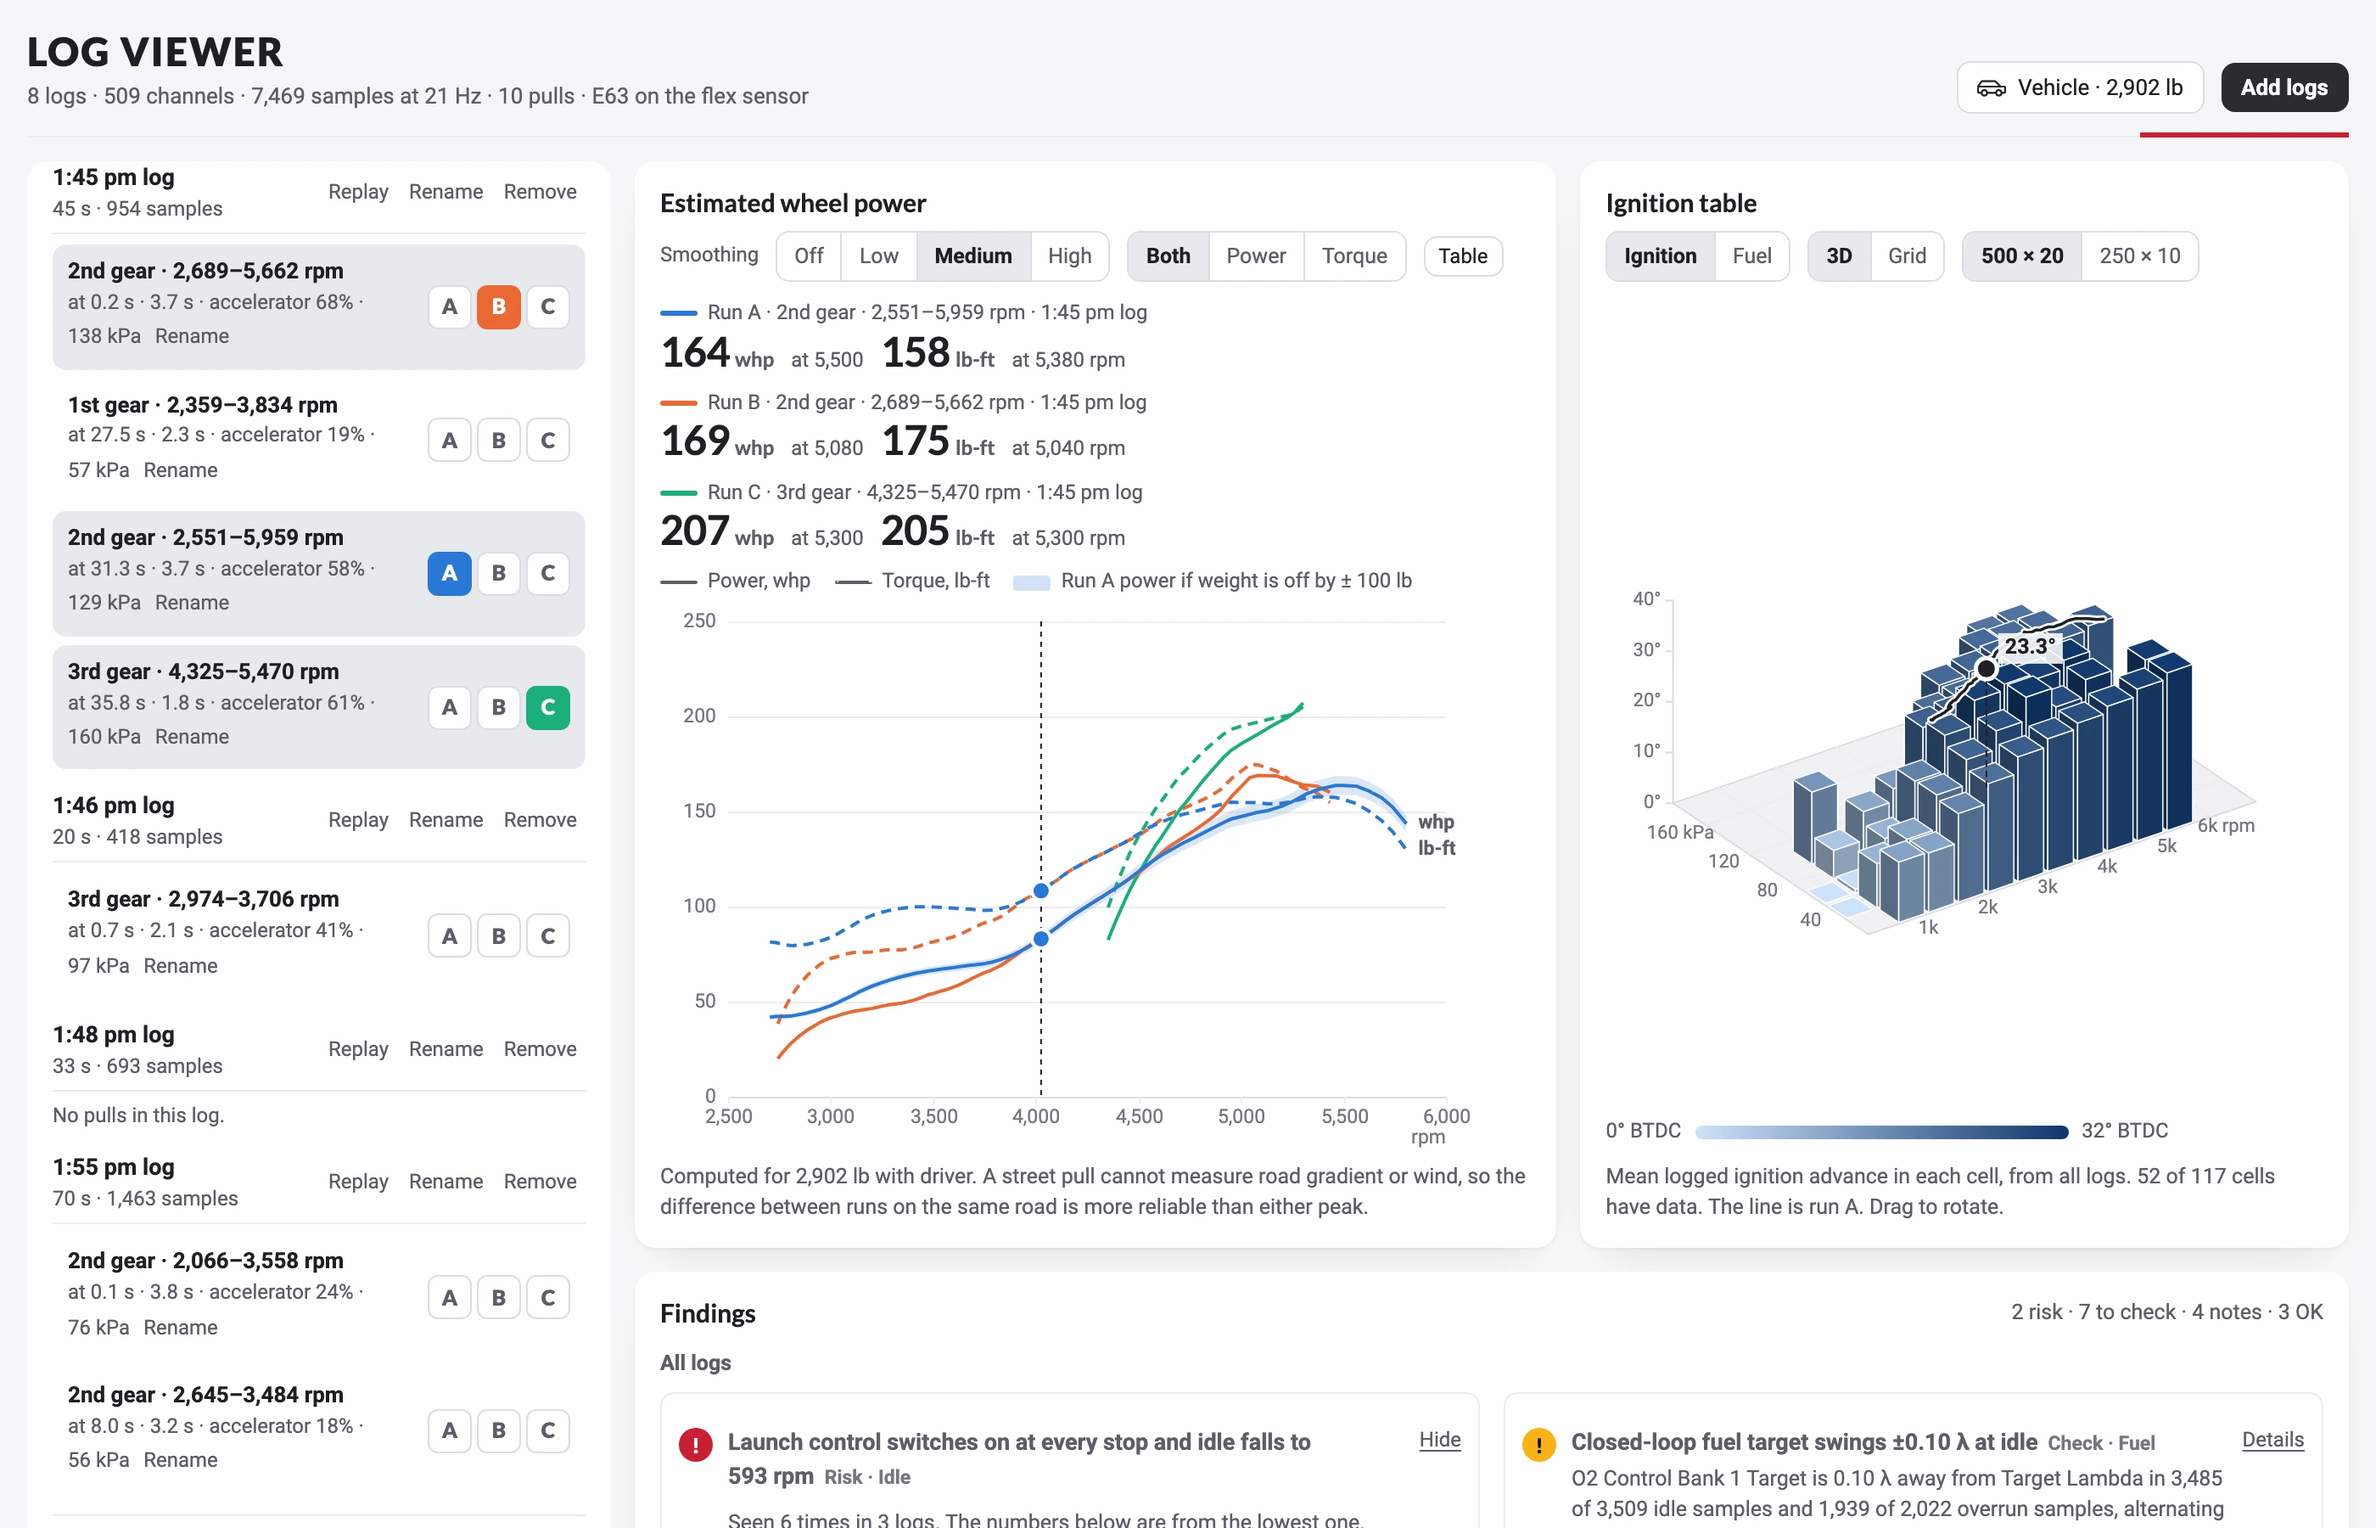
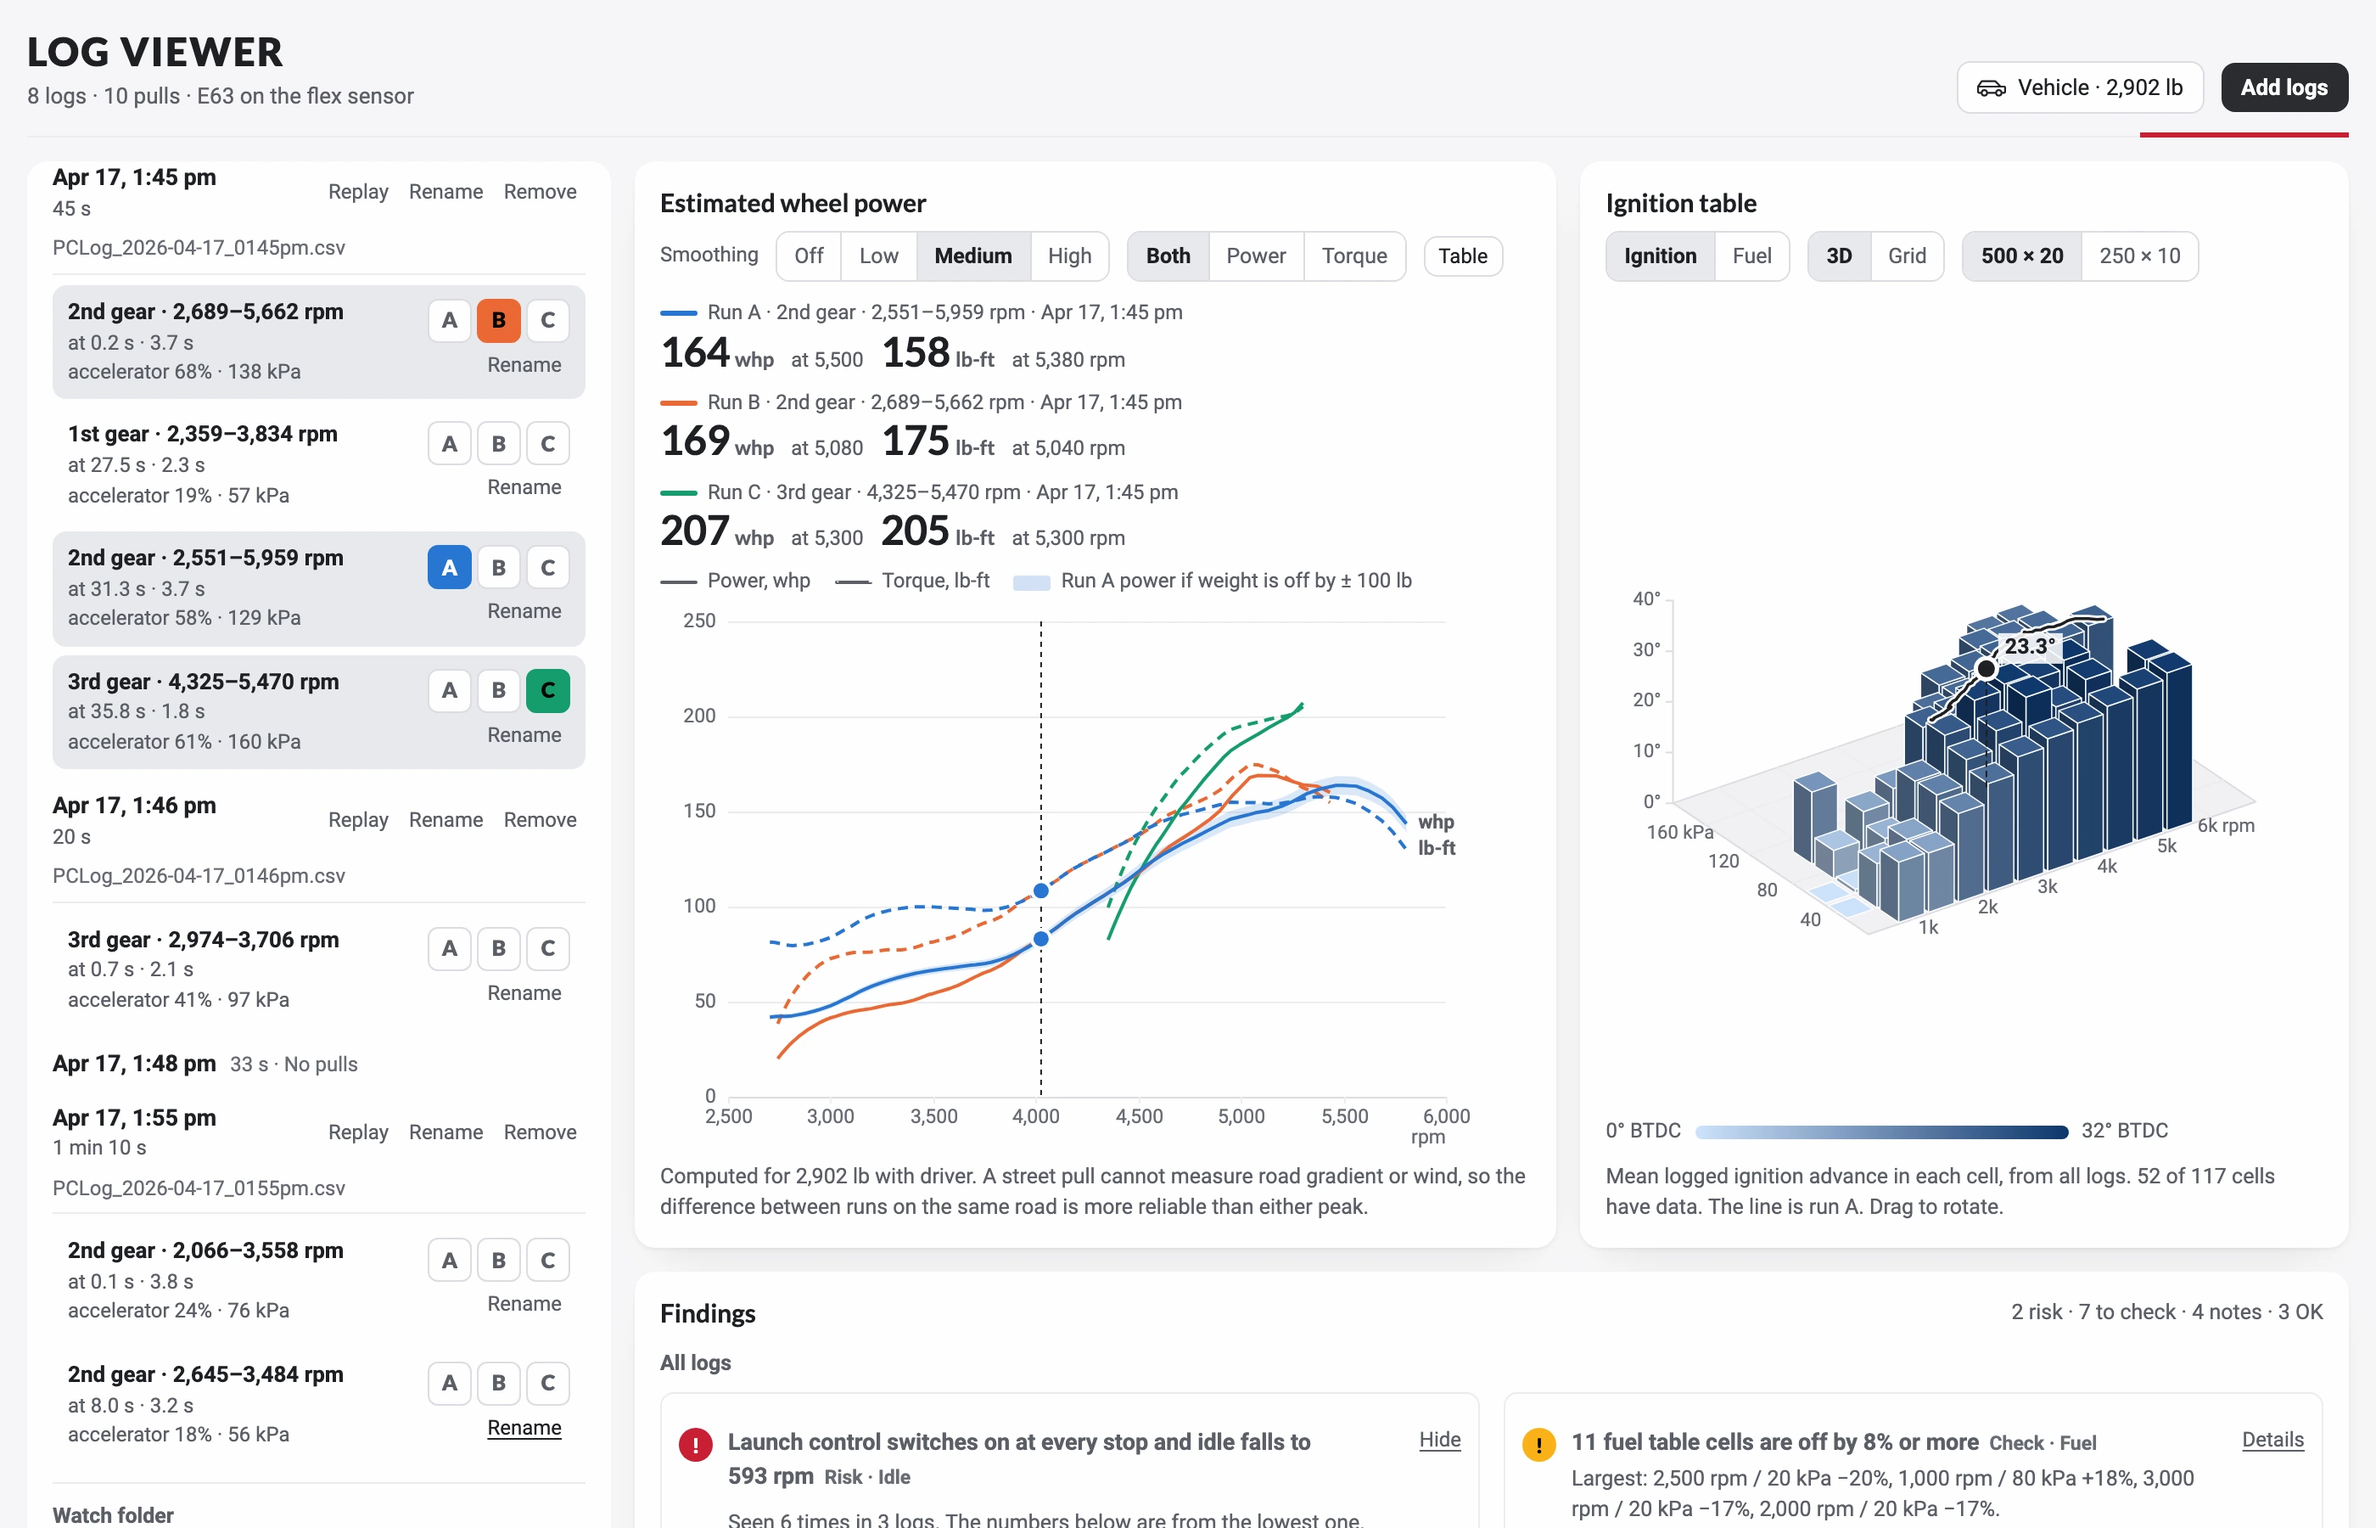
Site: screenshots of the log list and the replay's chips
The screenshots are retaken from the merged app: the log list titled by
date and time, and the replay with its chips. The replay image is shorter,
so its height follows; its alt text and caption say chips, not rows.
CLAUDE.md no longer asks for the retake.

diff --git a/site/index.html b/site/index.html
@@ -132,7 +132,7 @@
                 <img
                   src="img/power.webp"
                   width="543"
-                  height="641"
+                  height="640"
                   alt="Estimated wheel power and torque against engine speed for three pulls"
                   loading="lazy"
                 />
@@ -150,7 +150,7 @@
                 <img
                   src="img/table.webp"
                   width="453"
-                  height="641"
+                  height="640"
                   alt="Ignition table drawn in 3D, with the path of one pull across it"
                   loading="lazy"
                 />
@@ -165,14 +165,14 @@
                 <img
                   src="img/replay.webp"
                   width="980"
-                  height="778"
-                  alt="Replay of a pull: readouts at the playhead above traces of engine speed, pedal, manifold pressure, lambda, ignition and knock, then a row for each switch that changes in the pull"
+                  height="663"
+                  alt="Replay of a pull: readouts at the playhead, a chip for each switch and state that changes, with its value at the playhead, then traces of engine speed, pedal, manifold pressure, lambda, ignition and knock"
                   loading="lazy"
                 />
               </picture>
               <figcaption>
                 <h3>Replay</h3>
-                <p>Step through a pull by time or by RPM, on any channel the ECU logged. Switches that change in the pull are drawn as rows under the traces. Save the views you use.</p>
+                <p>Step through a pull by time or by RPM, on any channel the ECU logged. Switches and states that change in the pull are chips that read their value at the playhead; a chip you choose is shaded behind the traces. Save the views you use.</p>
               </figcaption>
             </figure>
           </div>

diff --git a/CLAUDE.md b/CLAUDE.md
@@ -47,9 +47,7 @@ See README.md for layout, commands and log import paths.
 - Replay: switches and states are chips under the readout cards, read at the playhead, with a tick above the time axis at every change; a chosen chip is shaded behind the traces, and Previous change and Next change step through the changes. Built from `docs/superpowers/specs/2026-10-04-replay-state-chips-design.md` by `docs/superpowers/plans/2026-10-04-replay-state-chips.md`; seen in the browser test, not yet in the native window. To see there: the transport held at the top of the window, and the safe-area inset on an iPhone or iPad; Tab through the chips and the two step buttons; the window resized by dragging; a chip's tooltip; a switch chip's reading with the playhead on the end of a span. They replaced the switch rows (`docs/superpowers/specs/2026-10-04-replay-switch-rows-design.md`).
   The traces and the chips take the stretch of the log they show from `replaySpan` in `src/state.ts`, so a zoom changes one place.
   A readout card is drawn only for a channel with no trace, the plots are 34 to 53 px tall so the replay fits the window, and the transport stays at the top of the window while the replay is on screen. The fit is measured when the room can change (the window, or a box above the traces, changes size; `refit` in `src/charts.ts`), not on every frame.
-  The website's replay screenshot predates the chips and must be retaken after the merge: `npm run site:shots`; the image's height changes, so its `height` in `site/index.html` must follow.
 - Log list: each log is titled by the name the person gave it or by its date and time (`Apr 17, 1:45 pm`, with the year when it is not this year), with its length and its file name under the title; a log the core cannot date is titled by its file name without `.csv` and has no file name line, and when the person renames it, it is titled by the given name and the line under the title reads the file name and the length; the logs are in order of start, those with no date last. A log with no pull is one line, the title, its length and `No pulls`, until it is opened, and open it says why it has no pull, in the log's own numbers where the reason has any; it opens on its own when the replay comes to it. The title of a closed log is cut at the end of its line and wraps once the log is open, and the line of a log with no pull shows the file name when the pointer rests on it (`title` on its button). The panel says what a pull is. A pull shows two lines of facts that never wrap, with Rename under A, B and C (a pull the person named also shows its gear and RPM range under the name). The list opens scrolled to run A. After a removal focus goes to the log that took the removed log's place, to the one before it when it was last, or to Add logs when none is left; removing the replayed log shows run A, when there is one, so it opens no log the person left closed. Built from `docs/superpowers/specs/2026-10-04-log-list-design.md` by `docs/superpowers/plans/2026-10-05-log-list.md`; seen in the browser test, not yet in the native window. To see there: VoiceOver on a closed log's button (collapsed, expanded); Tab through an open log, and where focus lands after a rename and after a removal; the list opening on run A in a short window; in a window 860px wide or less, the focus ring of a log's line and of the controls at the list's edges, whole on every side.
-  The website's screenshots predate the log list and must be retaken after the merge: `npm run site:shots`.
 - App UI pass with `redesign-existing-projects`, 2026-10-04. Applied: hover, press and transition states on controls, sentence-case subheads, `text-wrap: pretty` on prose, a car icon on the Vehicle button (Phosphor, as on the website), the 3D table growing to fill its panel, and a refused duplicate naming the file once.
   Then, same day: unselected pulls lose their boxes and the text actions their underlines; an empty library shows one "Add your first log" panel in place of the charts (`.app.no-logs`, set in `renderLogs`); naming, saving and deleting a view moved into the Channels picker.
 - UI review with `ui-ux-pro-max`, 2026-10-04 (https://claude.ai/artifact/RNaXck6LX1briQPyayHxZ9): 23 findings, and an order the owner approved.
